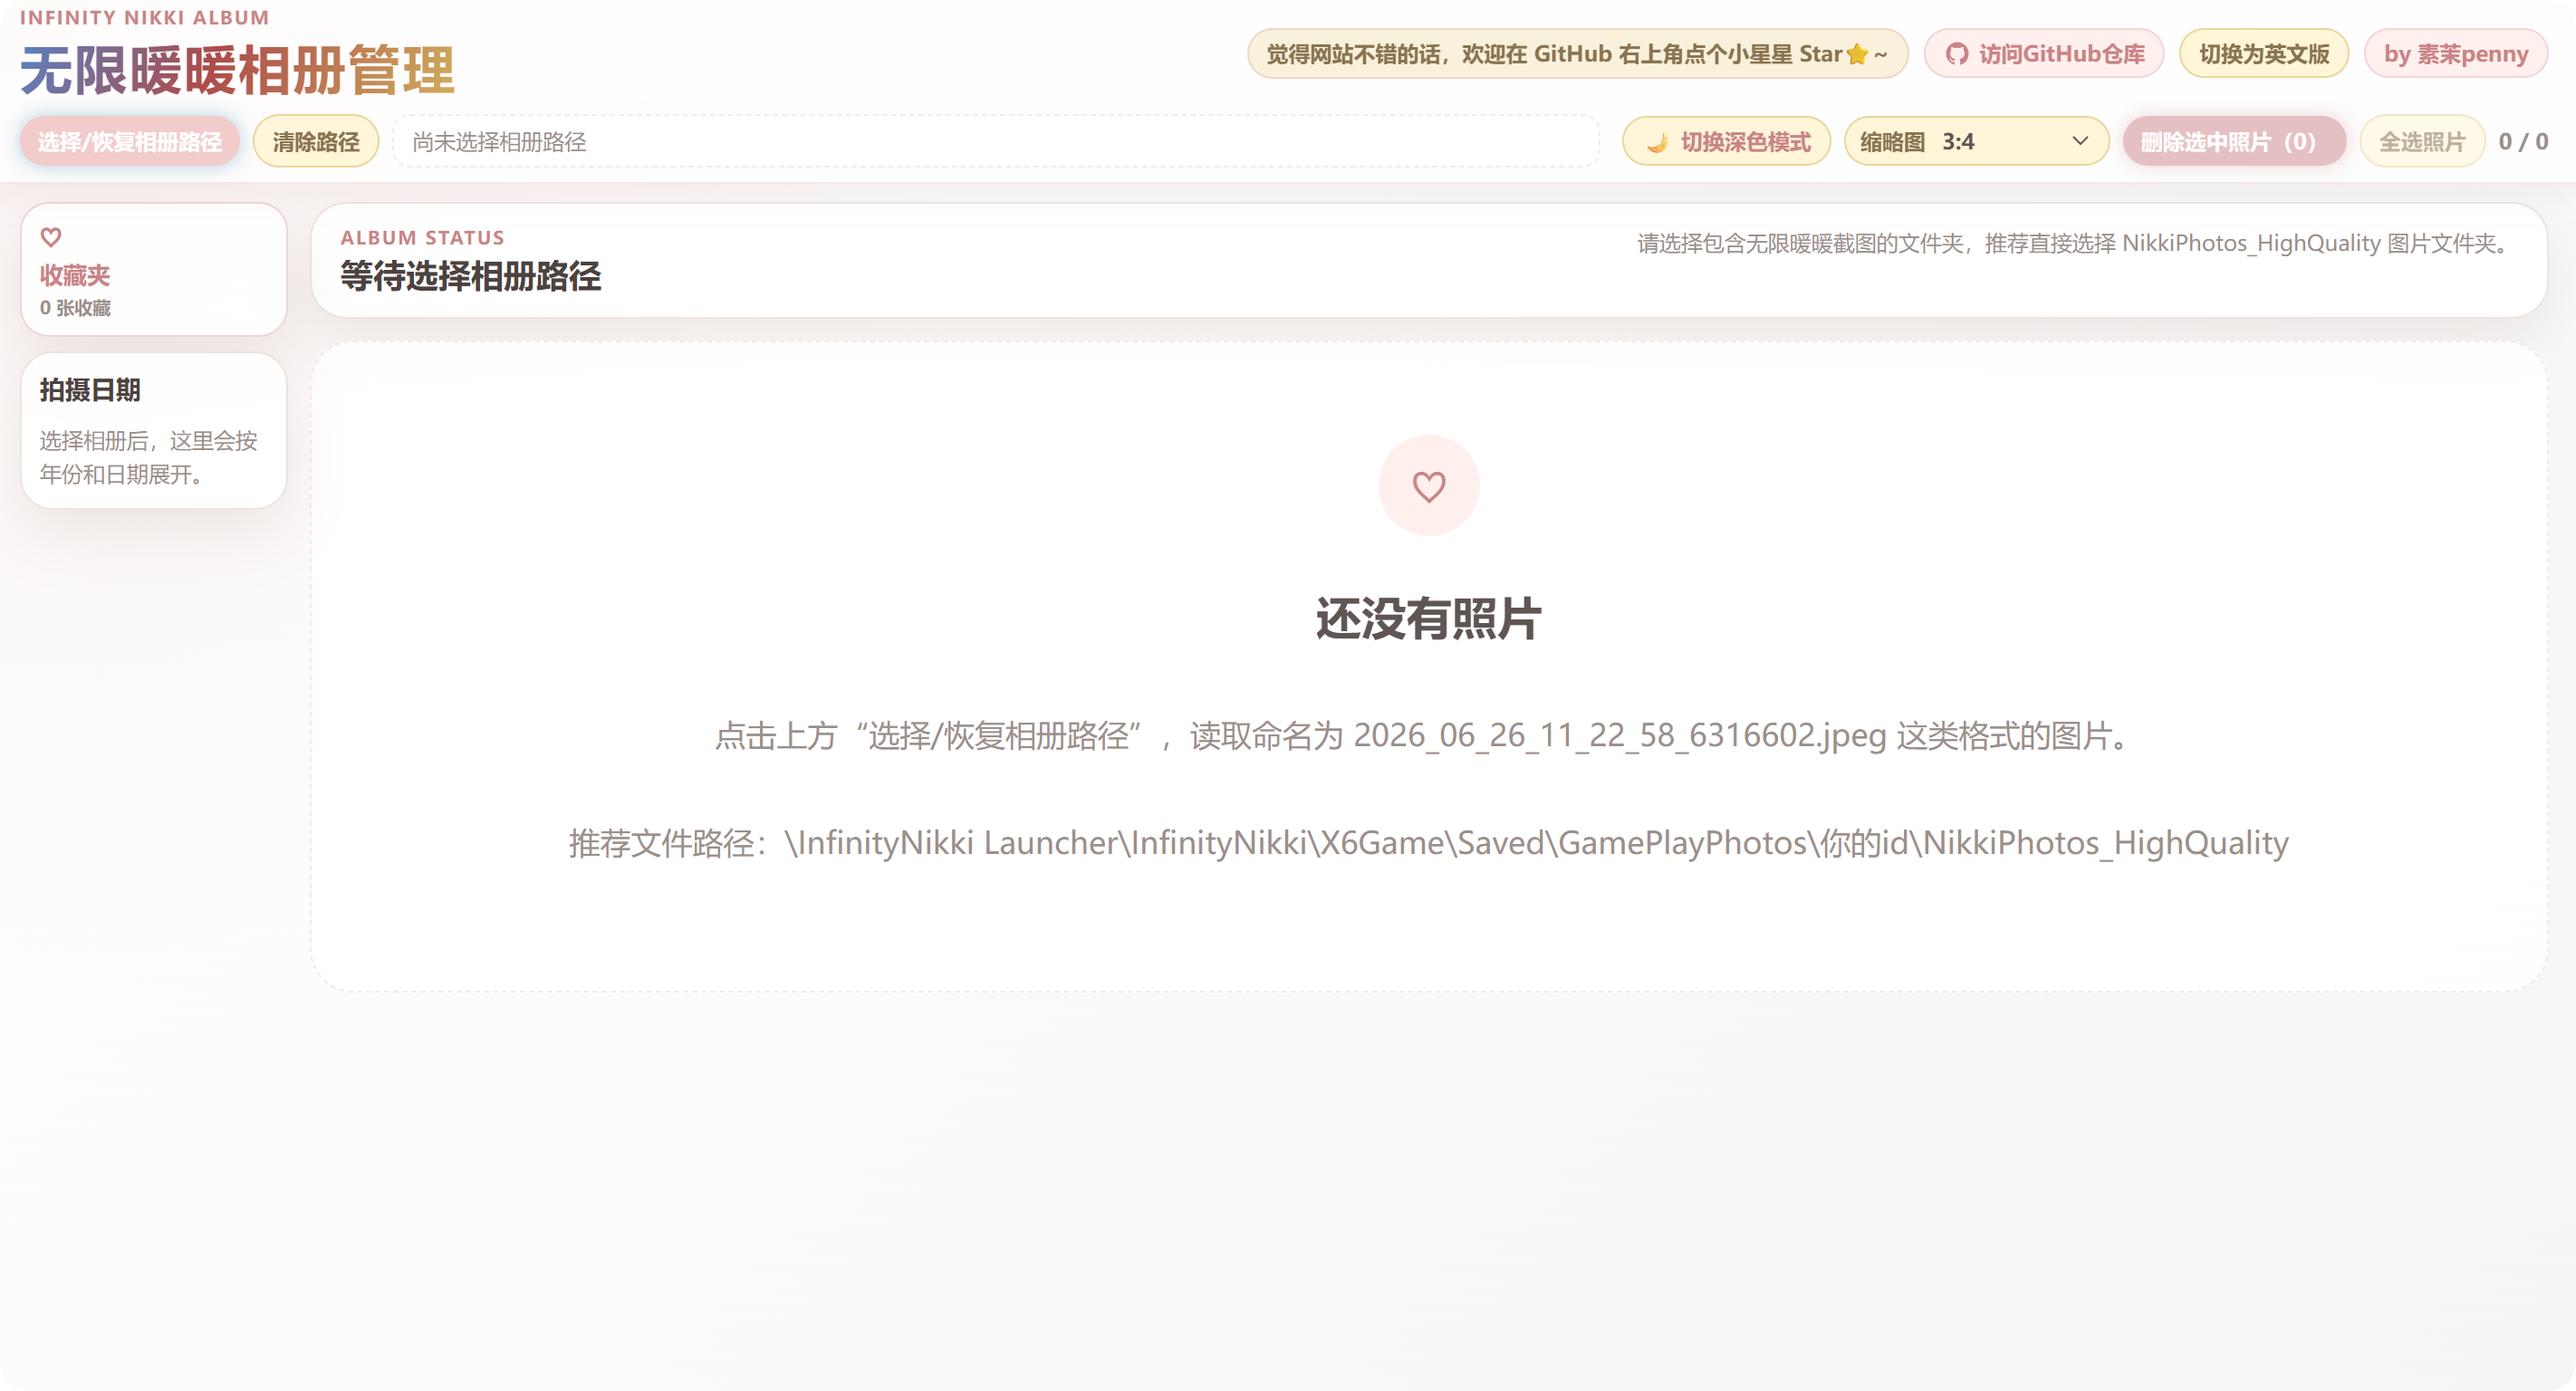
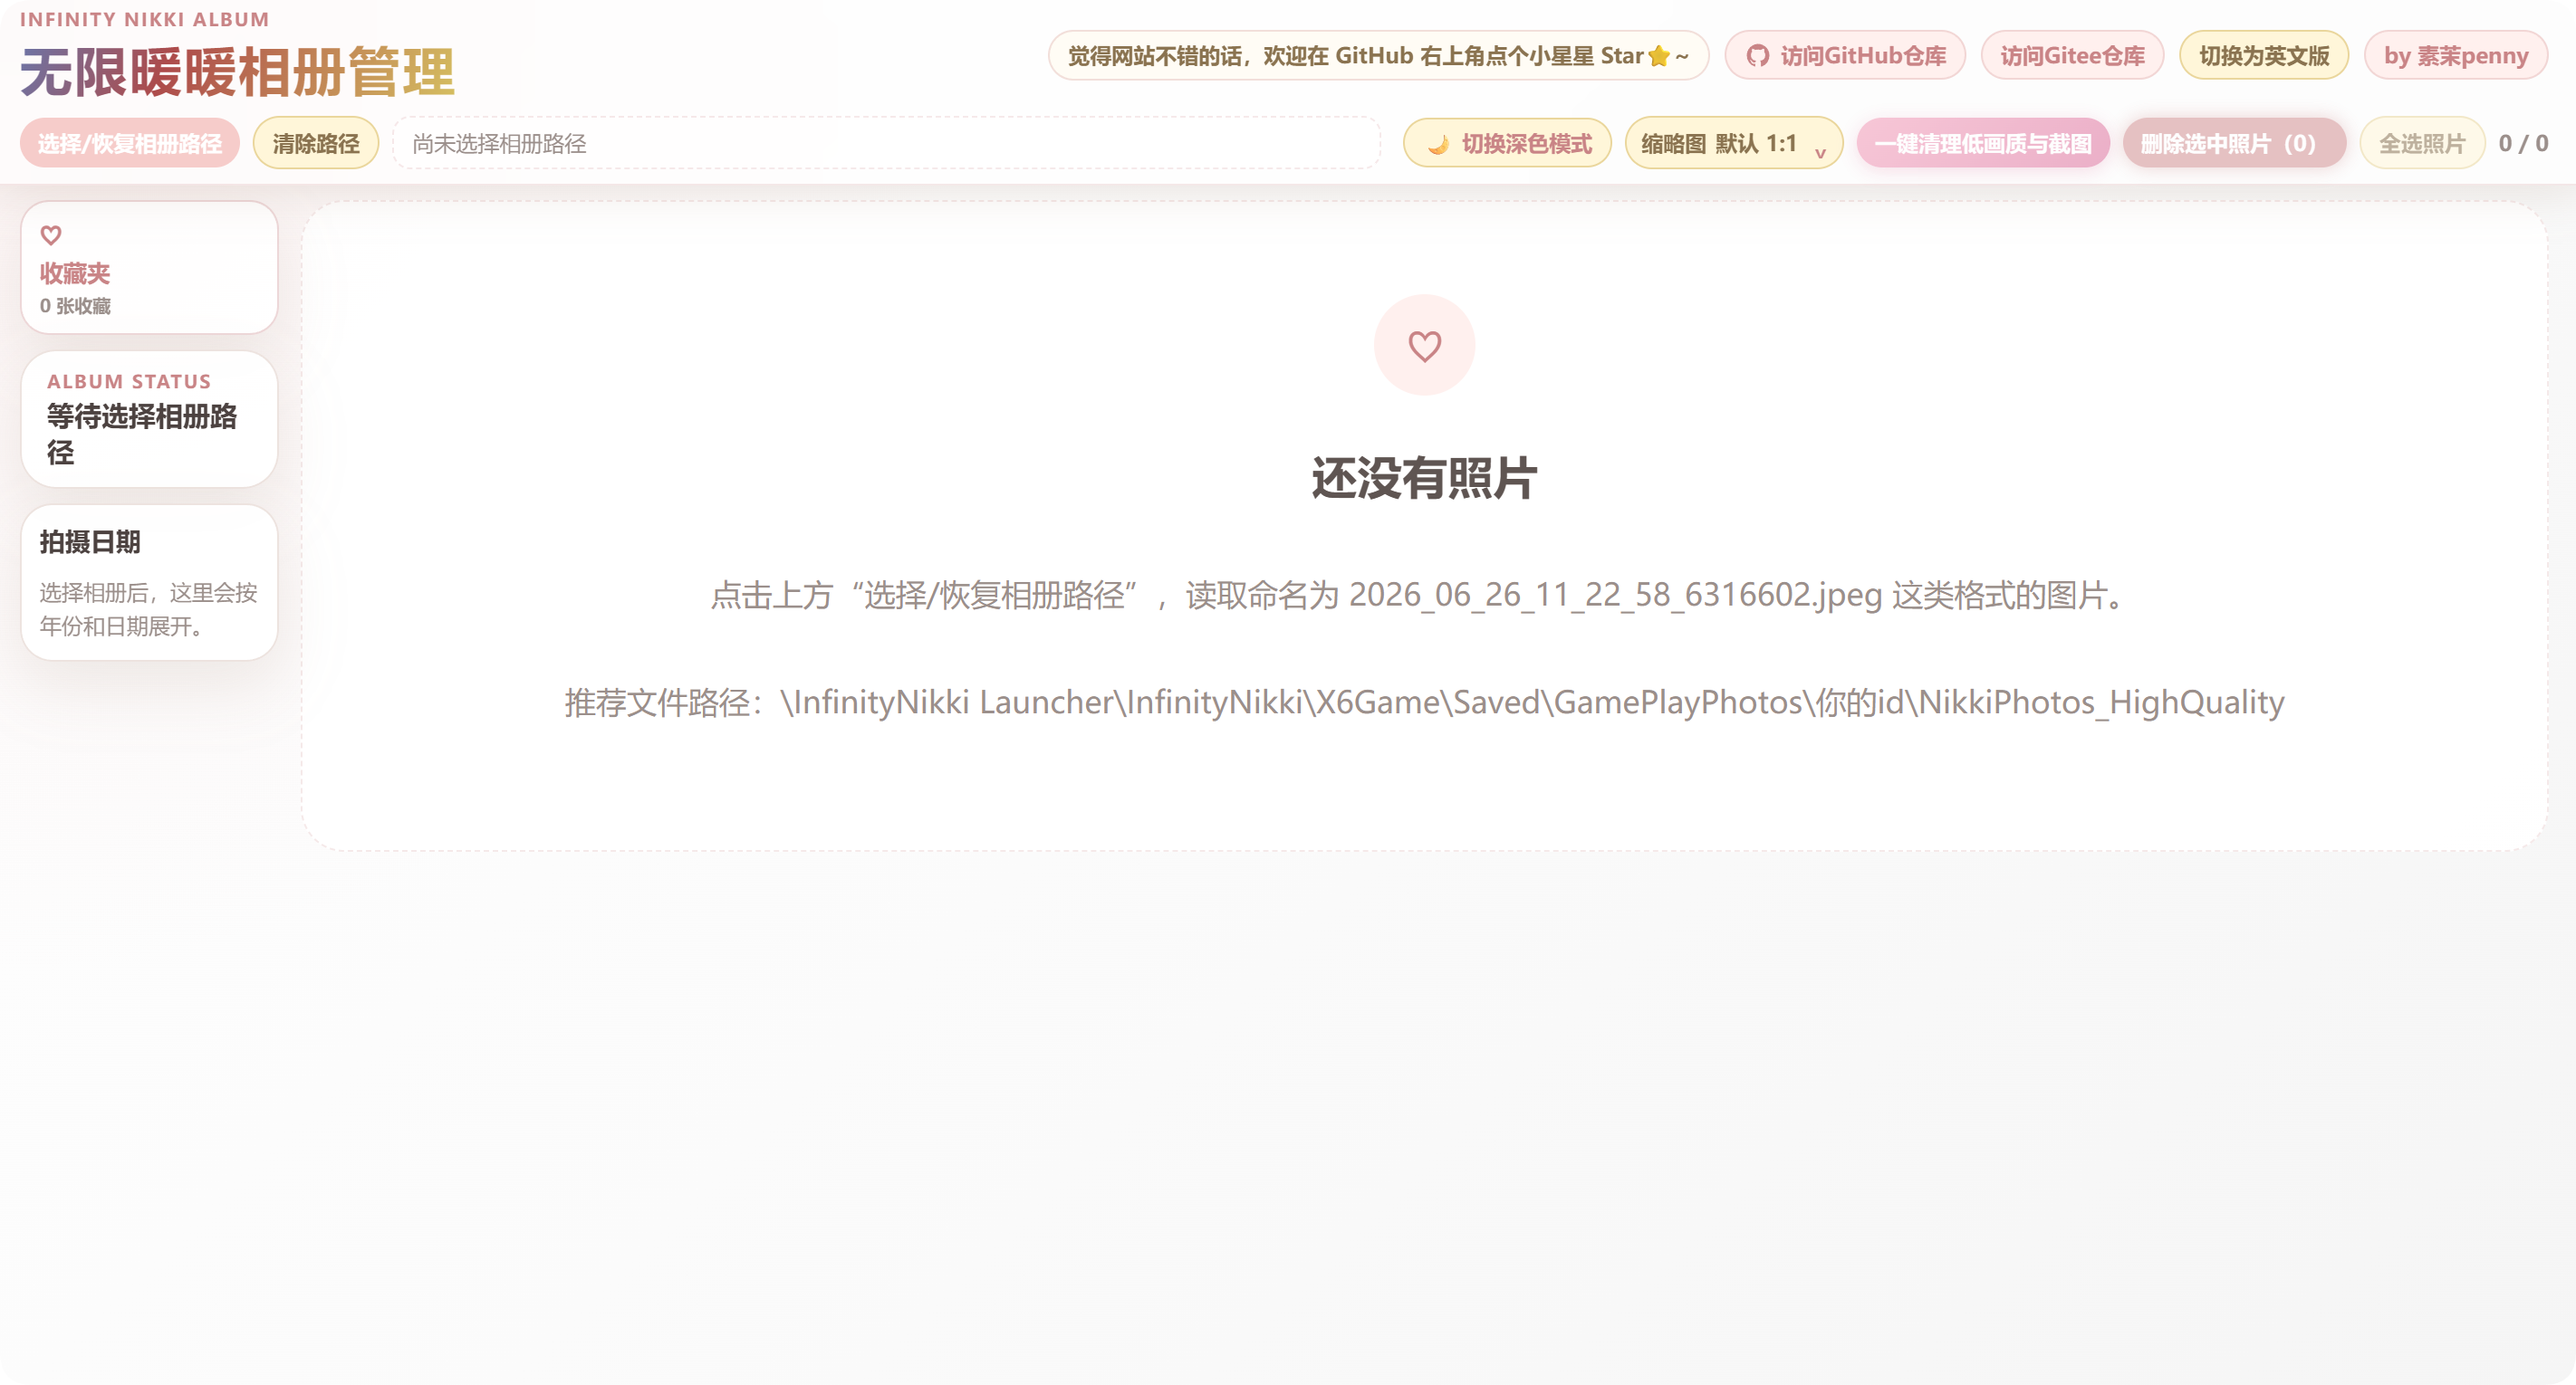
更新README

diff --git a/src/styles.css b/src/styles.css
@@ -1340,13 +1340,16 @@ h1 {
   z-index: 82;
   width: clamp(40px, 7vw, 52px);
   height: clamp(54px, 9vw, 72px);
-  border: 1px solid rgba(255, 255, 255, 0.7);
+  border: 3px solid rgba(255, 255, 255, 0.7);
   border-radius: 999px;
   background: var(--lightbox-nav-bg);
   color: var(--pink-deep);
   font-size: clamp(38px, 8vw, 54px);
-  line-height: 0.8;
-  box-shadow: 0 18px 40px rgba(30, 20, 20, 0.2);
+  display: flex;
+  align-items: center;
+  justify-content: center;
+  line-height: 1;
+  box-shadow: 0 18px 40px rgba(59, 32, 32, 0.312);
   transform: translateY(-50%);
   transition: transform 0.2s ease, opacity 0.2s ease, background 0.2s ease;
 }

diff --git a/README.md b/README.md
@@ -39,6 +39,8 @@ If you like this website, please give it a Star in the upper-right corner of the
 - 选择电脑里的《无限暖暖》相册文件夹，推荐文件路径：文件所在盘和目录\InfinityNikki Launcher\InfinityNikki\X6Game\Saved\GamePlayPhotos\你的id\NikkiPhotos_HighQuality。
 ![项目截图](img/3.png)
 
+- <a href="#67-一键清理低画质与截图"><b>一键清理NikkiPhotos_LowQuality和ScreenShot文件夹中的低质量图片</b></a>
+![项目截图](img/7.png)
 - 按拍摄日期自动分组显示照片。
 - 点击日期快速跳转到某一天的照片。
 - 点击照片时间前的爱心图标，把喜欢的图片加入收藏夹；点击左侧收藏夹按钮，只展示收藏图片及对应拍摄日期。
@@ -48,7 +50,8 @@ If you like this website, please give it a Star in the upper-right corner of the
 - 在大图预览里使用键盘左右方向键翻页。
 - 删除选中的照片，或删除当前预览的照片。
 - 调整缩略图比例，比如 1:1、半尺寸 1:1、16:9、4:3、9:16、3:4；选择半尺寸 1:1 前会提示页面可能卡顿，需要确认后才会切换。
-![项目截图](img/5.png)
+<img src="img/5.png" width="30%" />
+<img src="img/6.png" width="70%" />
 
 - 浏览器会记住上次选择过的相册文件夹，下次可以尝试自动恢复。
 - 收藏夹状态会保存在当前浏览器本地，不会上传图片或收藏记录。
@@ -404,6 +407,8 @@ You can use it to:
 
 - Choose your local Infinity Nikki screenshot folder. Recommended path: `drive and directory\InfinityNikki Launcher\InfinityNikki\X6Game\Saved\GamePlayPhotos\your id\NikkiPhotos_HighQuality`.
 ![Project Screenshot](img/3.png)
+- <a href="#67-clean-low-quality-photos-and-screenshots"><b>Clean low-quality images from NikkiPhotos_LowQuality and ScreenShot with one click</b></a>
+![Project Screenshot](img/7.png)
 - Automatically group photos by date.
 - Jump to a specific date from the sidebar.
 - Click the heart icon before each photo time to add it to Favorites, then click the left Favorites button to show only favorite photos and their capture dates.
@@ -413,7 +418,8 @@ You can use it to:
 - Use keyboard shortcuts in the preview window.
 - Delete selected photos or delete the photo currently being previewed.
 - Change thumbnail ratios, including 1:1, Half 1:1, 16:9, 4:3, 9:16, and 3:4; Half 1:1 shows a lag warning and requires confirmation before switching.
-![Project Screenshot](img/5.png)
+<img src="img/5.png" width="30%" />
+<img src="img/6.png" width="70%" />
 - Let the browser remember the last selected album folder when possible.
 - Save Favorites locally in the current browser without uploading photos or favorite records.
 

diff --git a/log.md b/log.md
@@ -43,3 +43,8 @@
 - 状态：已解决
 - 技术/方法：调整 `.date-link` 的 flex 布局，去掉纵向排列，改为横向居中并用 `justify-content: space-between` 分开日期和数量；同时给数量设置不换行，避免窄宽度下数字被挤到下一行。README.md 已检查，本次仅为视觉样式优化，不影响使用说明，无需更新。
 ---
+
+5.问题：README 中文教程开头新增了一键清理入口和 `img/7.png` 截图，同时把缩略图展示改为两张不同宽度的图片，用户要求补齐对应英文部分。
+- 状态：已解决
+- 技术/方法：对照 README 中文教程和英文教程的功能列表，补上英文的一键清理锚点链接与 `img/7.png` 截图，并把英文缩略图说明下方同步改成 `img/5.png` 30% 宽度、`img/6.png` 70% 宽度的展示方式，保持中英文内容和截图结构一致；随后复查相关 README 片段确认已同步。
+---
